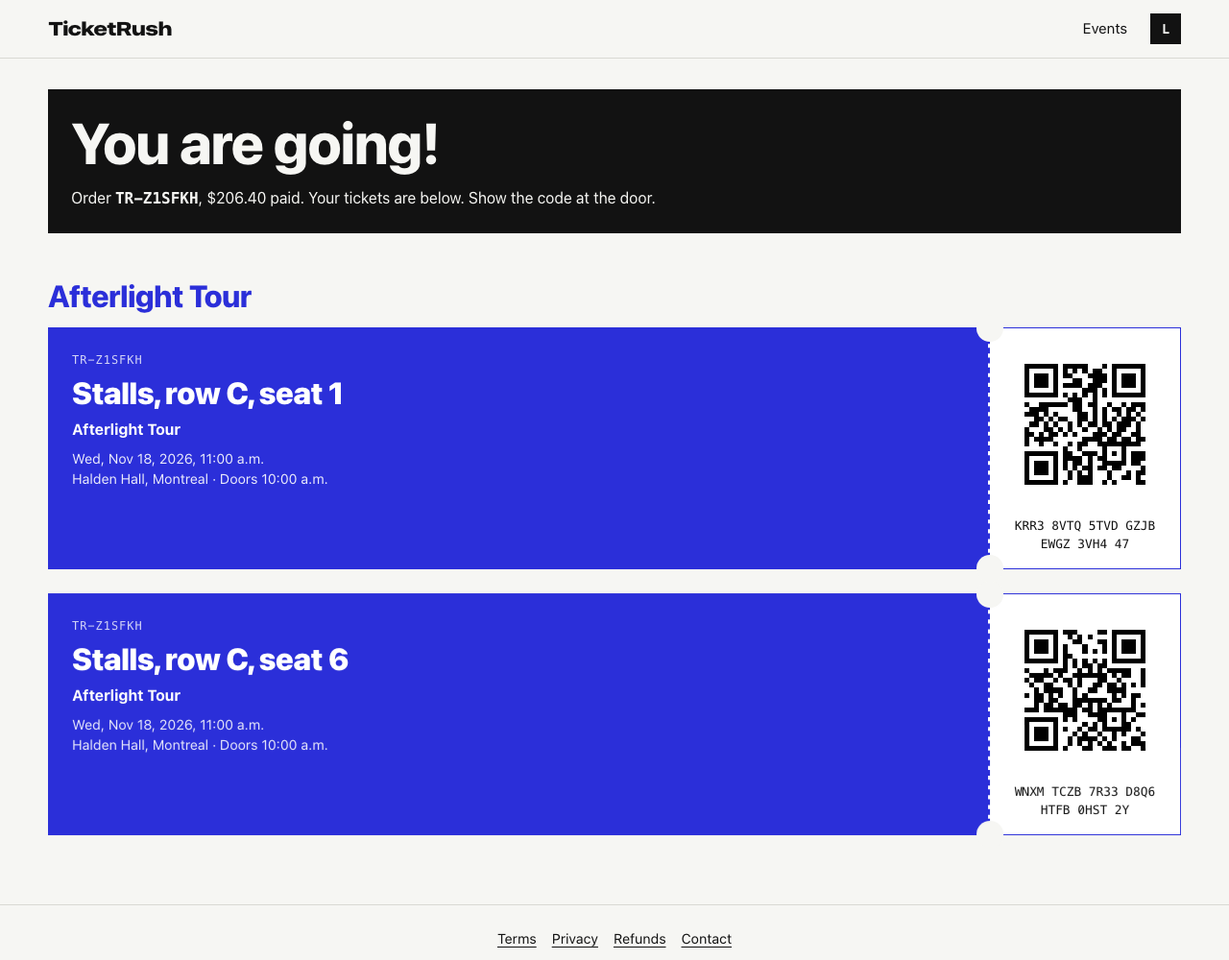
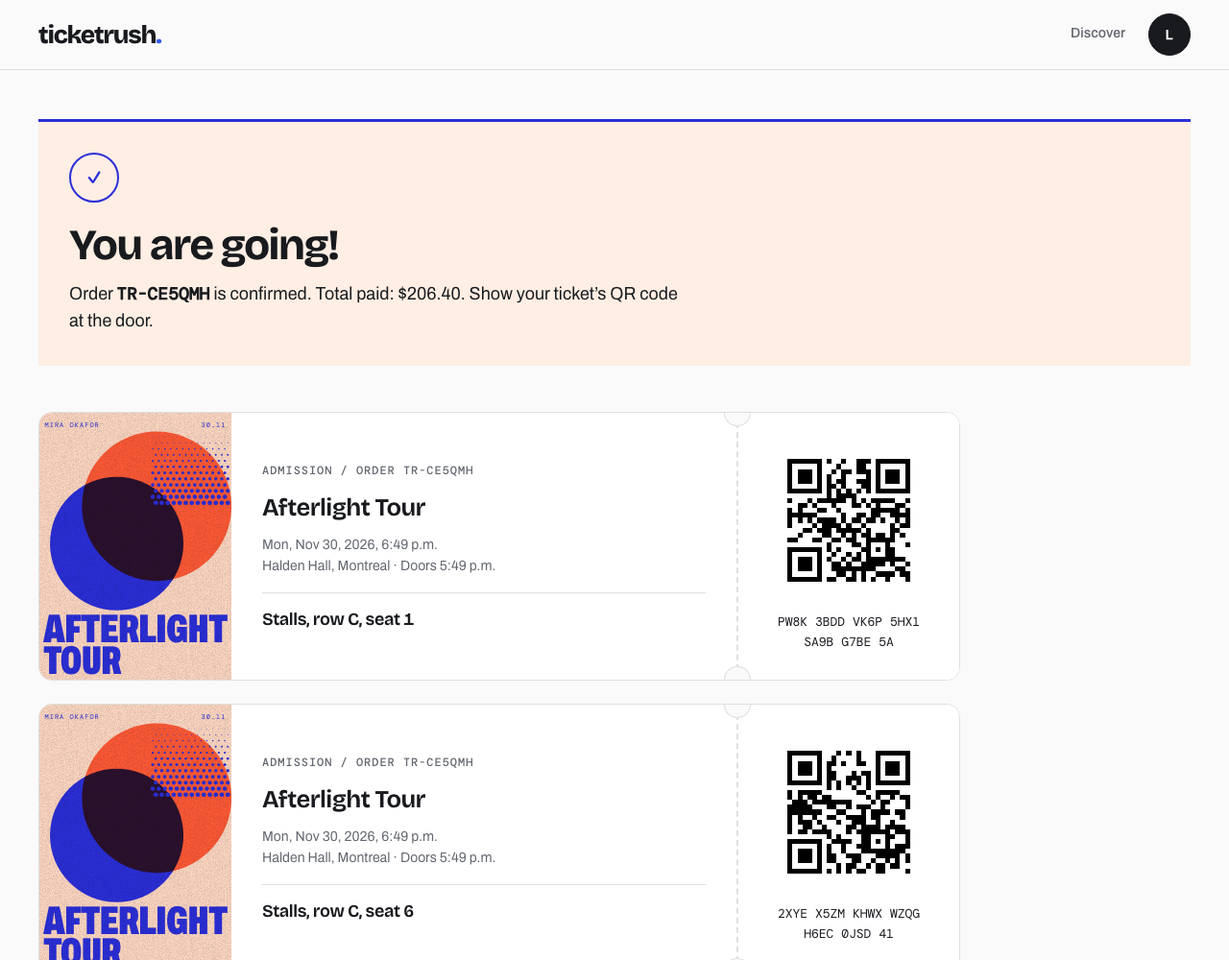
docs: refresh the README screenshots and the design notes
Regenerates every screenshot from the current interface, with a real event
description in place of the test fixture's, and rewrites the screen notes (which still
described screens that no longer exist) and the design-system rules to match what
the app does now.

diff --git a/document/screen-content-audit.md b/document/screen-content-audit.md
@@ -1,0 +1,263 @@
+# Screen content and hierarchy audit
+
+Reviewed 20 October 2026. This is an audit, not an implementation change.
+
+## Evidence and limits
+
+- Read the production route map, shared layout, and guest, account, authentication, organizer, recovery and error-screen implementations.
+- Loaded full public pages against the running local app: home, event 10, sign in, registration, forgotten password, reset password, email verification, terms, privacy, refunds, contact, 404 and goodbye. Checked the principal public screens at 390px as well as desktop.
+- Rendered seats, checkout, queue, tickets (empty and populated with QR failure), account, organizer events (empty), event creation, published dashboard and door entry at 1414px and 390px using intercepted local test fixtures. These establish layout/content evidence, not production API correctness. No real accounts, queue positions, holds, purchases, scans or cancellations were created.
+- Draft editing, successful payment confirmation, successful recovery/verification, published organizer lists, and all alternative error/sale states were source-reviewed; not every variant was rendered. Successful QR rendering and camera use were not tested. The scanner currently has no camera workflow.
+- Full-page screenshots were captured under `/tmp/audit-*`. No document-width overflow was detected in the mobile routes measured. That is not a complete accessibility or device certification.
+- The interface checklist informed checks for labels, navigation, focus and recovery. This report prioritizes screen purpose and accurate content over cosmetic checklist rules.
+
+## The central decision
+
+Each screen needs one primary job. Discovery helps choose an event; event details establish whether to attend; queue communicates waiting status; seats support an informed selection; checkout confirms and pays; tickets enable entry; account manages identity/security; organizer screens run an event. The current shared header and repeated decorative content blur these jobs.
+
+Keep the approved visual direction: monochrome discovery, restrained poster-derived event accents, readable light surfaces, calm motion. Do not replace this with more slogans, badges, reassurance paragraphs or invented statistics.
+
+## Fix first: correctness and misleading states
+
+1. **Venue time is not explicit.** `frontend/src/lib/time.ts:38` uses browser-local date/time formatting without a venue timezone. `frontend/src/features/console/EventForm.tsx:237` accepts local datetimes without saying which timezone they represent. Event details, tickets and checkout need an explicit venue timezone; the form needs a matching timezone model. An unlabeled time should not change meaning when a guest travels. The displayed 5 a.m. public event time was observed, but the intended seed-data time was not established.
+2. **Publication is mislabeled as availability.** `frontend/src/features/console/ConsoleEvents.tsx:12` and `frontend/src/features/console/Dashboard.tsx:121` map every PUBLISHED event to “On sale.” Published, scheduled, on sale, sold out and ended are different states. Use “Published” unless real sale-state information is available.
+3. **A goodbye URL falsely confirms deletion.** `frontend/src/features/account/AccountPage.tsx:120` checks closure state only for clearing the session, while line 128 always says the account is closed. Direct navigation must show a neutral state or redirect, never assert a deletion that did not occur.
+4. **Ticket-detail failures become endless loading.** `frontend/src/features/tickets/TicketsPage.tsx:64` reads event data but does not handle an individual event-query error; the fallback near line 91 is always a skeleton. A ticket must retain an actionable error/retry path instead of disappearing behind loading indefinitely.
+5. **Door history can imply an empty log when loading failed.** `frontend/src/features/console/Scanner.tsx:124` uses the same fallback for absent data and an empty array. Show loading, failed history with retry, and genuinely empty history separately. Also clear the previous admission result when the next check begins; the current result remains visible during the new request (`Scanner.tsx:60`).
+6. **Leaving the queue can appear successful after failure.** `frontend/src/features/queue/useWaitingRoom.ts:131` suppresses the DELETE error, while the page navigates away. Keep a visible failure/retry path and only confirm leaving when the server accepts it.
+7. **There is no private support channel in the current preview.** `frontend/src/features/legal/LegalPages.tsx:151` sends problems to public GitHub issues. This is an honest demonstration fallback, not a suitable purchase-support experience. Configure a private contact before presenting this as a real ticketing service.
+
+## Screen-by-screen disposition
+
+### Shared header and footer
+
+**Keep:** brand, accessible account access, sign in/sign up for guests, active hold with a way to release it, legal links.
+
+**Move/remove:** `frontend/src/app/Layout.tsx:54` puts event search on every non-home screen, including payment and door entry. Use a discovery header for browsing, a compact purchase header for the booking flow, and an organizer shell for operations. Do not show a guest's shopping timer as a primary tool in the door scanner. Keep access to an active hold elsewhere rather than deleting it globally. Avoid duplicating Discover and All events navigation unnecessarily.
+
+**Missing:** a clear, readily discoverable My tickets destination for signed-in guests; contextual purchase labels. `Layout.tsx:68` calls the queue step “Seats” before selection is available. On mobile, the header occupies multiple rows before the task begins.
+
+### Home / discovery
+
+**Keep:** search, category selection, city/date filters, one featured event, event grid, result count, sorting, clear-filter/empty recovery and pagination.
+
+**Remove/shorten:** the visible “DISCOVER / Find your next event.” block (`Discover.tsx:103`) repeats what the screen already communicates and pushes events down. Preserve an accessible page heading. Reduce hero height and the repeated featured-event emphasis; the featured event immediately reappears as the first grid item. That duplication is not a functional bug, but consumes scarce initial attention.
+
+**Missing:** organizer-authored categories instead of title guessing (`browse.ts:8`), useful sale-state labels on cards (`EventCard.tsx:32`), and a custom-date option if the product intends more than this weekend/next week. Put sort near the main filtering controls, not only below the large hero. “Local events” should be a location view, not a genre. Add new categories only when real inventory supports them; do not manufacture festival sections or popularity claims.
+
+**Recommended visible order:** header search → categories and city/date/sort → compact spotlight → results. Use “All events,” “Comedy,” “Festivals,” “Theatre & arts,” “Sports” consistently. Review whether “Music” better describes the actual mixed music inventory than “Concerts.”
+
+### Event details
+
+**Keep:** poster, event name, artist, description, date/start/doors, venue and city, availability, section prices and one booking action.
+
+**Move/remove:** total venue capacity is less useful to a buyer than ticket type and actual availability. De-emphasize “480 reserved seats”; it should not compete with date/place. Keep the hold explanation with seat selection, where the reservation starts, rather than repeating it across pages.
+
+**Missing:** venue address/directions, explicit timezone, organizer identity, and applicable admission/accessibility/age rules. Add a short refund-policy link near booking; keep the full policy on its own page. These require real organizer/venue data, not plausible-sounding frontend copy. Share is a useful secondary feature; saved events are optional, not a prerequisite for a complete booking screen.
+
+**Source:** `frontend/src/features/event/EventPage.tsx`.
+
+### Waiting room
+
+**Keep:** event context, people ahead, estimated wait, connection state, automatic admission and confirmed leave action.
+
+**Move/remove:** on mobile the poster precedes the actual waiting status. Reduce it to a contextual thumbnail. People ahead, exact position and total queue population are overlapping metrics; make people ahead and estimated wait primary. Remove the “back/front” framing if it implies a fixed track rather than progress relative to the guest's initial position. Consolidate repeated “your place is safe” statements into one contextual instruction/status.
+
+**Missing:** visible freshness/stale-state handling when updates cannot be obtained; a clear statement that entering the queue does not guarantee a ticket. Keep that one short sentence, not a reassurance block. Do not call this screen “Seats” in the journey bar.
+
+**Source:** `frontend/src/features/queue/WaitingRoom.tsx:145`, `:166`, `:181`.
+
+### Seat selection
+
+**Keep:** stage reference, section names, per-section price, state legend, keyboard navigation, total, specific continuation label and a release action for an existing hold.
+
+**Move/remove:** event search and unrelated organizer navigation. Treat release as secondary so it does not rival the payment action.
+
+**Missing:** on phones, a selected-seat count and expandable seat/price breakdown. `frontend/src/features/seats/seats.css:218` hides the selected lines and all non-total rows, leaving only a total. Guests must be able to verify what they selected before continuing. For larger venues, add a section jump/overview; do not imply that the current rectangular grid is an accurate architectural venue map.
+
+### Checkout
+
+**Keep:** event/date/place, selected seats, subtotal/fee/total, confirmation email, card form, clear Pay amount, one authoritative hold countdown, actionable payment errors, and cautious pending-payment recovery.
+
+**Move/remove:** browsing search and Console links. Consolidate the header and summary countdown rather than showing the same deadline twice. The mobile summary should be compact/expandable; the full-height poster and summary currently put the payment form well down the page.
+
+**Missing:** concise final-sale/refund terms beside payment and a private order-help route. Label the confirmation email explicitly; “Contact and card” suggests contact editing that is not offered. Keep test-mode disclosure and test-card help while this remains a demo—removing safety disclosure to appear premium would be misleading. Collapse technical test examples by default, as currently done.
+
+**Source:** `frontend/src/features/checkout/CheckoutPage.tsx:253`, `:310`; `checkout.css:166`.
+
+### Purchase confirmation
+
+**Keep:** success result, order reference, paid total and tickets.
+
+**Move/remove:** don't make a customer scan their complete ticket history to identify the order just purchased. The current confirmation says “Your tickets are below” but renders the entire wallet.
+
+**Missing:** isolate/highlight the newly purchased order, a direct View tickets action and relevant delivery/support information. Do not promise an email unless delivery state is known. Receipt/download would be useful only when backed by real generated output.
+
+**Source:** `frontend/src/features/tickets/TicketsPage.tsx:38`. Source-reviewed, successful payment not executed.
+
+### My tickets / admission ticket
+
+**Keep:** scannable QR plus fallback code, event/date/venue, exact seat, order reference, used/cancelled state, and cancelled-event notice.
+
+**Move/remove:** on mobile the decorative artwork should not precede the actionable admission code by most of a screen. Event name is repeated in the group heading and again on the stub; one compact contextual heading is enough.
+
+**Missing:** upcoming/past/cancelled grouping, upcoming-first ordering, order-level details and actual refund progress rather than assuming every cancellation is still “being returned.” QR retry/offline availability deserves a separate functional implementation, not an ornamental download button. Preserve a useful ticket when secondary event details fail.
+
+**Source:** `frontend/src/features/tickets/TicketsPage.tsx:20`, `:73`; `TicketStub.tsx:18`.
+
+### Account
+
+**Keep:** identity once, ticket access, data export and account closure behind a clearly named destructive section.
+
+**Move/remove:** repeated name/email in the heading, identity card and overview. Remove the “Your account” stat and unrelated “Find your next night” primary button. “Account settings” currently jumps directly to deletion (`AccountPage.tsx:76`); rename it or provide actual settings. De-emphasize the full deletion form until deliberately opened, retaining password confirmation and consequences.
+
+**Missing:** profile editing and a deliberate security/password-change entry point. “Tickets ready” currently counts all ISSUED tickets, not necessarily future ones; either filter by event date or use the accurate label “Active tickets.” Distinguish a ticket-count failure from an indefinite dash.
+
+### Sign in
+
+**Keep:** email/password, password recovery, clear submit and registration switch; preserve the originating event.
+
+**Move/remove:** global event search and the large marketing text panel, especially where it competes with the form. A small brand treatment is enough; “YOUR NEXT NIGHT OUT / YOUR ACCOUNT. YOUR TICKETS.” adds little task value.
+
+**Missing:** show/hide password; contextual “Sign in to continue to [event]” when authentication interrupts booking. Do not add unnecessary identity fields.
+
+### Registration
+
+**Keep:** name, email, password requirements, terms/privacy consent copy, bot check when configured, and sign-in switch.
+
+**Move/remove:** the same oversized marketing panel. Use “Create account” consistently between navigation, heading and action rather than several near-identical formulations where space is tight.
+
+**Missing:** show/hide password and clear next-step email-confirmation guidance after registration, preserving booking context. Social login is optional, not a completeness requirement.
+
+**Authentication source:** `frontend/src/features/auth/AuthForm.tsx`.
+
+### Forgotten password
+
+**Keep:** email, send action, privacy-preserving success response, expiry/delivery guidance and Back to sign in.
+
+**Move/remove:** unrelated event search. Shorten the success paragraph into a clear result plus secondary delivery help.
+
+**Missing:** a way to correct the email/retry after success, subject to rate limits; preserve the destination through recovery where feasible.
+
+### Reset password
+
+**Keep:** new password, requirements, submit, success sign-in and request-new-link recovery.
+
+**Move/remove:** the generic invalid-link component offers “new confirmation link” alongside password reset. This is the wrong task vocabulary for this screen.
+
+**Missing:** a reset-specific expired-link state with one primary “Send a new reset link” action and show/hide password.
+
+### Email verification
+
+**Keep:** working, confirmed and failed states.
+
+**Move/remove:** irrelevant password-reset advice in a verification failure. Do not make “Browse events” the only success destination when the user was confirming to book a particular event.
+
+**Missing:** appropriate resend/sign-in path and return-to-booking context. Do not expose or reproduce secret email tokens in support details.
+
+**Recovery sources:** `frontend/src/features/auth/recovery.tsx:95`, `:154`, `:172`.
+
+### Organizer event list
+
+**Keep:** create action, status, title, date/venue, sold/capacity and revenue, empty state, pagination.
+
+**Move/remove:** repeated Console/Your events labels and duplicate create actions in the empty state; one primary action suffices. Distinguish guest browsing from organizer navigation.
+
+**Missing:** accurate publication versus sale status first. Search and status/date filters become useful as the inventory grows; they are not an excuse to add empty analytics widgets now.
+
+**Source:** `frontend/src/features/console/ConsoleEvents.tsx:12`.
+
+### Create event
+
+**Keep:** show details, venue, ticket sections/prices, event/sale times, waiting-room option, poster preview, draft save and cancellation.
+
+**Move/remove:** hide waiting-room opening fields when the room is disabled rather than asking users to fill irrelevant settings. Keep advanced new-venue layout separate from the basic show details. On mobile, bring the preview close to poster editing rather than leaving it after the entire long form.
+
+**Missing:** actual category, venue address/timezone, admission/accessibility information and uploaded organizer poster support. The current style/ink/paper controls are a generated-poster editor, not the uploaded-poster workflow requested earlier. Preserve these as an optional template tool. Add clear saved/unsaved state and safe exit for edits; new-event local draft persistence already exists.
+
+**Source:** `frontend/src/features/console/EventForm.tsx:154`, `:237`, `:250`.
+
+### Edit draft
+
+**Keep:** same core content and validation as creation, explicit draft-only restriction.
+
+**Move/remove:** “Cancel it and create a new event” is potentially confusing venue-change advice when working on a draft; make the actual supported recovery clear without implying a nonexistent draft-cancellation control.
+
+**Missing:** unsaved-change protection for edits. Existing local persistence only saves new-event drafts. Verify published/cancelled direct edit routes produce a clear read-only recovery rather than an editable form that only fails on save.
+
+**Source:** `frontend/src/features/console/EventForm.tsx:94`, `:174`. Source-reviewed; edit route not rendered in this audit.
+
+### Organizer dashboard
+
+**Keep:** status, publication/edit actions for drafts, door-entry action, guest preview, revenue/sold counts, section availability and deliberate cancel confirmation.
+
+**Move/remove:** make cancellation secondary to daily operations. Avoid labeling gross receipts including platform fees as an organizer payout. Hide irrelevant waiting-room metrics when no waiting room is enabled; that requires the corresponding event metadata.
+
+**Missing:** update timestamp/stale/error indication when live refresh fails. `Dashboard.tsx:37` deliberately retains previous summary data but offers no freshness warning. Queue failure should not remain “Checking…” indefinitely. Order counts are not order management; a searchable order view and private support path are subsequent product work, not something this aggregate screen currently provides.
+
+### Door entry
+
+**Keep:** unambiguous event identity, checked-in count, ticket-code input, immediate outcome and recent history.
+
+**Move/remove:** global search, guest hold controls, and the tall mobile organizer navigation ahead of the admission tool. Make the actual event name more prominent than a back link. Replace “Scan or type” with “Scan with a connected reader or enter a code” unless camera scanning is implemented.
+
+**Missing:** mobile camera workflow if phone-based scanning is promised; explicit connection/history failure, pending-check state that replaces the previous result, and a safe route to resolve invalid tickets. Do not fabricate a camera permission UI around a non-camera implementation.
+
+**Source:** `frontend/src/features/console/Scanner.tsx:60`, `:104`, `:124`.
+
+### Terms, privacy and refunds
+
+**Keep:** these separate policy pages; their detailed rules belong here rather than as repeated sales-page reassurance. Preserve truthful demo/test-mode limitations.
+
+**Move/remove:** generic “Questions about this page? See Contact” is fine on policy pages, but becomes a self-link on Contact. Privacy language should describe actual enabled infrastructure rather than an aspirational architecture.
+
+**Missing:** verify policy assertions against current deployment before a real launch. This was a UI/content audit, not a legal or provider-compliance review; no conclusion that the policies are legally sufficient is made.
+
+### Contact
+
+**Keep:** a private contact address and the instruction to include an order reference, never sensitive payment/password information.
+
+**Move/remove:** the current public GitHub fallback is acceptable only as an explicitly limited demo. Remove the self-referential Contact link and irrelevant “Last updated” treatment for a basic support destination.
+
+**Missing:** operational support channel, what details to provide and truthful response expectations. Do not invent support hours or guaranteed response times.
+
+### 404 / unavailable / offline / permission errors
+
+**Keep:** specific problem, one appropriate recovery action, optional support details. Collapsed technical details are appropriately secondary.
+
+**Move/remove:** “the event may have ended” should not imply that an ended event normally disappears; use invalid/removed-link wording for a generic 404. Recovery must match the failed task rather than always send guests to discovery.
+
+**Missing:** per-widget error distinctions as noted for wallet and scanner. Test payment unknown/declined/expired and queue reconnect states separately before calling the whole flow verified.
+
+**Source:** `frontend/src/app/RouteError.tsx:9`; shared `frontend/src/components/ErrorScreen.tsx`.
+
+### Account-closed confirmation
+
+**Keep:** a neutral, concise completion message only after confirmed closure and sign-out.
+
+**Move/remove:** unconditional “Your account is closed” on direct URL access.
+
+**Missing:** guard/redirect when closure state is absent. This is a correctness fix, not a styling preference.
+
+### Design lab / render gallery
+
+These are internal review tools, not additional customer product screens. Keep them separate from live navigation and label mock capabilities clearly. A render containing a camera scanner, upload control, receipt button or sales chart does not establish a working implementation. The production audit above, not visual presence in the gallery, defines current capability.
+
+## Content and visual rules for the next implementation pass
+
+- Use direct task language: Browse events, Choose seats, Continue to payment, Pay [amount], My tickets, Create event, Save draft, Check ticket.
+- Keep one visible page title. Use small labels only when they add context; do not stack Discover, Overview, Your account and repeated identities.
+- Use one body font and a restrained display scale; reserve monospace for codes, timers and genuinely tabular values. A font replacement is not the first fix for the current hierarchy problems.
+- Keep secondary metadata readable instead of making all supporting copy tiny uppercase labels. Use event accent for selected state, primary action and focus—not every title or paragraph.
+- Order mobile content by task urgency: queue status before art, selected seats before continuation, payment summary before commitment but compact, admission code before decoration, scanner before navigation.
+- Motion should preserve context and never delay access to payment or an admission code. Keep reduced-motion alternatives. This audit did not establish perceived quality of every transition.
+
+## Implementation order
+
+1. Accurate states, timezone model, broken recovery and private support readiness.
+2. Context-specific shells; reduce mobile decoration and restore selected-seat review.
+3. Organizer metadata model (category, venue/admission details, poster upload) and corresponding guest information.
+4. Account/settings and ticket-wallet structure, contextual authentication/recovery.
+5. Typography, spacing and motion polish after screen content and ordering are correct.
+
+Do not add favorites, recommendations, social proof, loyalty, hourly analytics or wallet export merely to make screens look fuller. Each needs actual user value, data and a working implementation.

diff --git a/document/ticketrush-design-system.md b/document/ticketrush-design-system.md
@@ -1,0 +1,53 @@
+# TicketRush interface system
+
+The production UI uses three families, each with one job. Bricolage Grotesque is the display face for headings and big numbers (`--font-display`). Archivo is for reading and controls (`--font-ui`). DM Mono is for short labels, seat identifiers, ticket codes, prices, and clocks (`--font-mono`). All three are self-hosted. Event posters keep their own artwork and typography. A heading never names a font family itself: `h1`–`h3` take `--font-display` from `base.css`.
+
+## Source files
+
+- `frontend/src/styles/tokens.css`: colors (including the one action color), type roles and families, weights, spacing, radii, and motion timings.
+- `frontend/src/styles/base.css`: document typography, page width, keyboard focus, and layout foundations.
+- `frontend/src/styles/components.css`: buttons and form fields, including hover, focus, disabled, and error states.
+- `frontend/src/styles/motion.css`: shared transitions and animations, with reduced-motion fallbacks.
+- `frontend/src/app/layout.css`: the shell: header, hold control, purchase journey bar, footer.
+- One stylesheet per screen (`discover.css`, `event.css`, `seats.css`, `checkout.css`, and so on). Each is the single source for that screen, written with tokens only; there is no override layer on top of them, and no hard-coded brand colors or font names outside `tokens.css`.
+
+## Type roles
+
+| Token | Use | Size |
+| --- | --- | --- |
+| `--text-display` | Featured event and prominent event title | 40–72 px, fluid |
+| `--text-page` | Main page title | 32–56 px, fluid |
+| `--text-page-compact` | Authentication, recovery, legal, and error title | 28–40 px, fluid |
+| `--text-section` | Section title | 22–28 px, fluid |
+| `--text-item` | Card title, panel subheading, seat description | 18 px |
+| `--text-body` | Reading text and input values | 16 px |
+| `--text-small` | Buttons, secondary explanations, field labels | 14 px |
+| `--text-caption` | Venue, date, secondary navigation | 13 px |
+| `--text-label` | Short metadata and progress labels | 12 px |
+| `--text-metric` | Prices, totals, dashboard metrics | 28–40 px, fluid |
+| `--text-metric-compact` | Metrics in narrow dashboard columns | 20–28 px, fluid |
+| `--text-count` | Queue position | 56–96 px, fluid |
+
+Use 720 for display text, 650 for headings and emphasis, and 550 for compact labels. Keep body text regular. Headings use compact leading and modest negative tracking; paragraphs use 1.6 leading. Never reduce input text below 16 px. The wordmark is set in the display face at weight 800 with a blue period, so it matches the headlines; only the poster artwork is an exception to the interface type scale.
+
+## Color roles
+
+The app uses light paper, white surfaces, a soft gray inset surface, dark ink, and readable muted text. Inverse panels use the same dark surface and inverse text tokens. Error, warning, success, and informational treatments use semantic colors; status always has a written label or icon too.
+
+There is one action color, `--action` (cobalt). Every primary button, selected seat, active step, focus ring, and link-like action uses it, on every screen, so the same kind of control never changes color from page to page. Hover uses `--action-hover`; tinted backgrounds use `--action-tint`.
+
+Event colors belong to posters and small identity marks: the artist line on the event page, the rule across the top of the booking, seat, checkout and ticket cards, the queue number, and the confirmation tick. They do not recolor buttons, the document background, or body text. `eventTheme` computes readable foregrounds (`--ev-text`, `--on-ev`) for those marks; do not replace them with a hardcoded white or black.
+
+## Layout and controls
+
+Use the existing 4 px spacing scale, a 1280 px maximum page width, fluid page gutters, 6 px controls, 12 px menus and notifications, and 14 px owned tickets. Artwork stays square. Interactive targets should be at least 44 px; primary form controls are 48 px. Destructive actions use the danger button treatment.
+
+The header holds the brand, Discover's search and filters (nowhere else has site search), the hold clock while seats are held, and the account. Purchase pages let it scroll away. Back and purchase progress remain together in one sticky row. Checkout hides the header's hold clock because the large clock beside the total is the same information. On narrow phones, hide step numbers before reducing readable labels. Seat rows scroll inside the map; the page itself must not overflow horizontally. The mobile selection summary stays fixed at the bottom and names the chosen seats beside the total, with notifications lifted above it. On checkout the order summary is never sticky: it sits beside the form on a wide screen and comes first, compact, on a phone, so it can never cover the payment form. Sticky is for something much shorter than what scrolls past it (the seat map's summary), not for two columns of similar height. Posters are shown whole, never cropped into a strip: as a thumbnail beside the event's name on checkout and tickets.
+
+## Motion
+
+Use 160 ms for immediate feedback, 240 ms for state changes, 280 ms for page changes, and 420 ms for longer entrances. Stagger related items by 40 ms. Animate opacity and transforms; do not animate layout. Button movement is restrained, errors do not shake, and seats do not bounce dramatically. Respect reduced motion throughout. Avoid transforms on an ancestor of fixed or sticky controls: entrance animations use `backwards` fill, never `both`, so a finished animation does not leave a page permanently transformed (that made sticky elements stutter while scrolling).
+
+## Verification
+
+Review production screens at desktop and phone widths, including long headings, empty and error states, hover and keyboard focus, and fixed controls. Run the existing tests and production build. A passing component test does not establish that a protected organizer page, live queue, or payment state has been visually checked.

diff --git a/document/render-implementation-parity.md b/document/render-implementation-parity.md
@@ -1,0 +1,38 @@
+# Screen implementation notes
+
+What each production screen does today, and where it still differs from the design explorations. The explorations (the clickable journey, the screen gallery and the concept directions) live under `frontend/src/features/design/` and load only in development, at `/design-lab`; they are reference material and are not part of the build. The rules the screens follow are in `ticketrush-design-system.md`.
+
+| Screen | Route | What it does |
+| --- | --- | --- |
+| Discovery | `/` | A lead event, then everything on sale: category tabs, city and date filters, price, date and name sorting, all kept in the address. Search sits in the header; scrolling past the page's own filters turns the header into a compact filter bar, and scrolling up brings the brand and search back. Four-column event grid, two on a phone. |
+| Event | `/events/:id` | Large poster beside the title, description, facts and one booking card (status, starting price, countdown when the sale is not open, the action). On a phone the booking card comes before the facts. The tiers and what is left follow. |
+| Queue | `/events/:id/queue` | Poster beside live queue state: people ahead, estimated wait, place, progress, connection status, leaving. |
+| Seats | `/events/:id/seats` | Seat map with a stage, sections, 44 px seat controls and a key. A running summary beside it; on a phone a bar along the bottom that names the chosen seats, shows the total and holds or releases them. |
+| Checkout | `/events/:id/checkout` | Order summary (whole poster as a thumbnail, seats, totals, the live hold clock) and the payment form. The summary comes first on a phone and never overlaps the form. |
+| Confirmation | `/tickets` after paying | Confirmation in the purchased event's tint, then the tickets. |
+| Tickets | `/tickets` | One ticket per seat: poster, event and seat, private QR with a fallback, a tear-off stub with notches. |
+| Sign in, register, recovery | `/signin`, `/register`, `/forgot-password`, `/reset-password`, `/verify-email` | One narrow card shared by all of them, with validation and the links between them. |
+| Account | `/account` | Identity card, real issued-ticket count, email status, data export, and account closure set apart in the danger colour. |
+| Organizer | `/console`, `/console/events/:id` | Dark sidebar (a strip on a phone), event cards, real metrics, per-section sales meters. |
+| Create event | `/console/events/new` | Sectioned form cards and a live poster preview. |
+| Scanner | `/console/events/:id/scan` | Dark input surface, real code checking, outcome panel, recent scans. |
+| States | everywhere | Loading, empty, error and payment-pending states share the same controls, surfaces and type. |
+
+## Where it differs from the explorations, or is unfinished
+
+- Category labels are inferred from words in an event's name and artist, because the API has no category field. Search and filtering download every page of events in the browser first; that should move to server-side queries for a large catalog.
+- Events supply a generated vector poster and a three-colour palette, not uploaded artwork. Photo posters would need an upload feature and storage.
+- The explorations' hourly sales chart used invented numbers. The live dashboard shows real per-section sales; an hourly series remains to be built.
+- There is no receipt download and no separate order history.
+- The scanner supports typed codes and keyboard-style scanners. A camera viewport and a separate admit step are not built: a valid scan admits the ticket immediately.
+- The explorations' queue estimates, email-delivery claims and account statistics were examples. Production shows the values the API provides.
+
+## Verification
+
+Run on 21 October 2026 against the local stack (`dev,loadtest` profiles, 60-second holds):
+
+- Typecheck and production build pass; the build contains no design-gallery code or art.
+- 358 unit tests pass. The Playwright suite passes on the desktop and phone (Pixel 7) projects: 37 passed, 2 skipped.
+- Every public screen and the buyer flow (event, seats, hold, checkout, payment, tickets, account) were driven in a browser at 1440 px and 390 px; no horizontal overflow, one top-level heading per page, and no tap target under 40 px was measured on the guest routes.
+- The organizer event list and dashboard were viewed at 1440 px, and the event form and scanner at 390 px; the other combinations were not.
+- Not exercised: live payment against a real provider, camera scanning, the waiting room while actually queued (admissions are too fast locally to catch), and Safari and Firefox. Scrolling smoothness was checked by measuring layout shift and animation state, not frame times.
